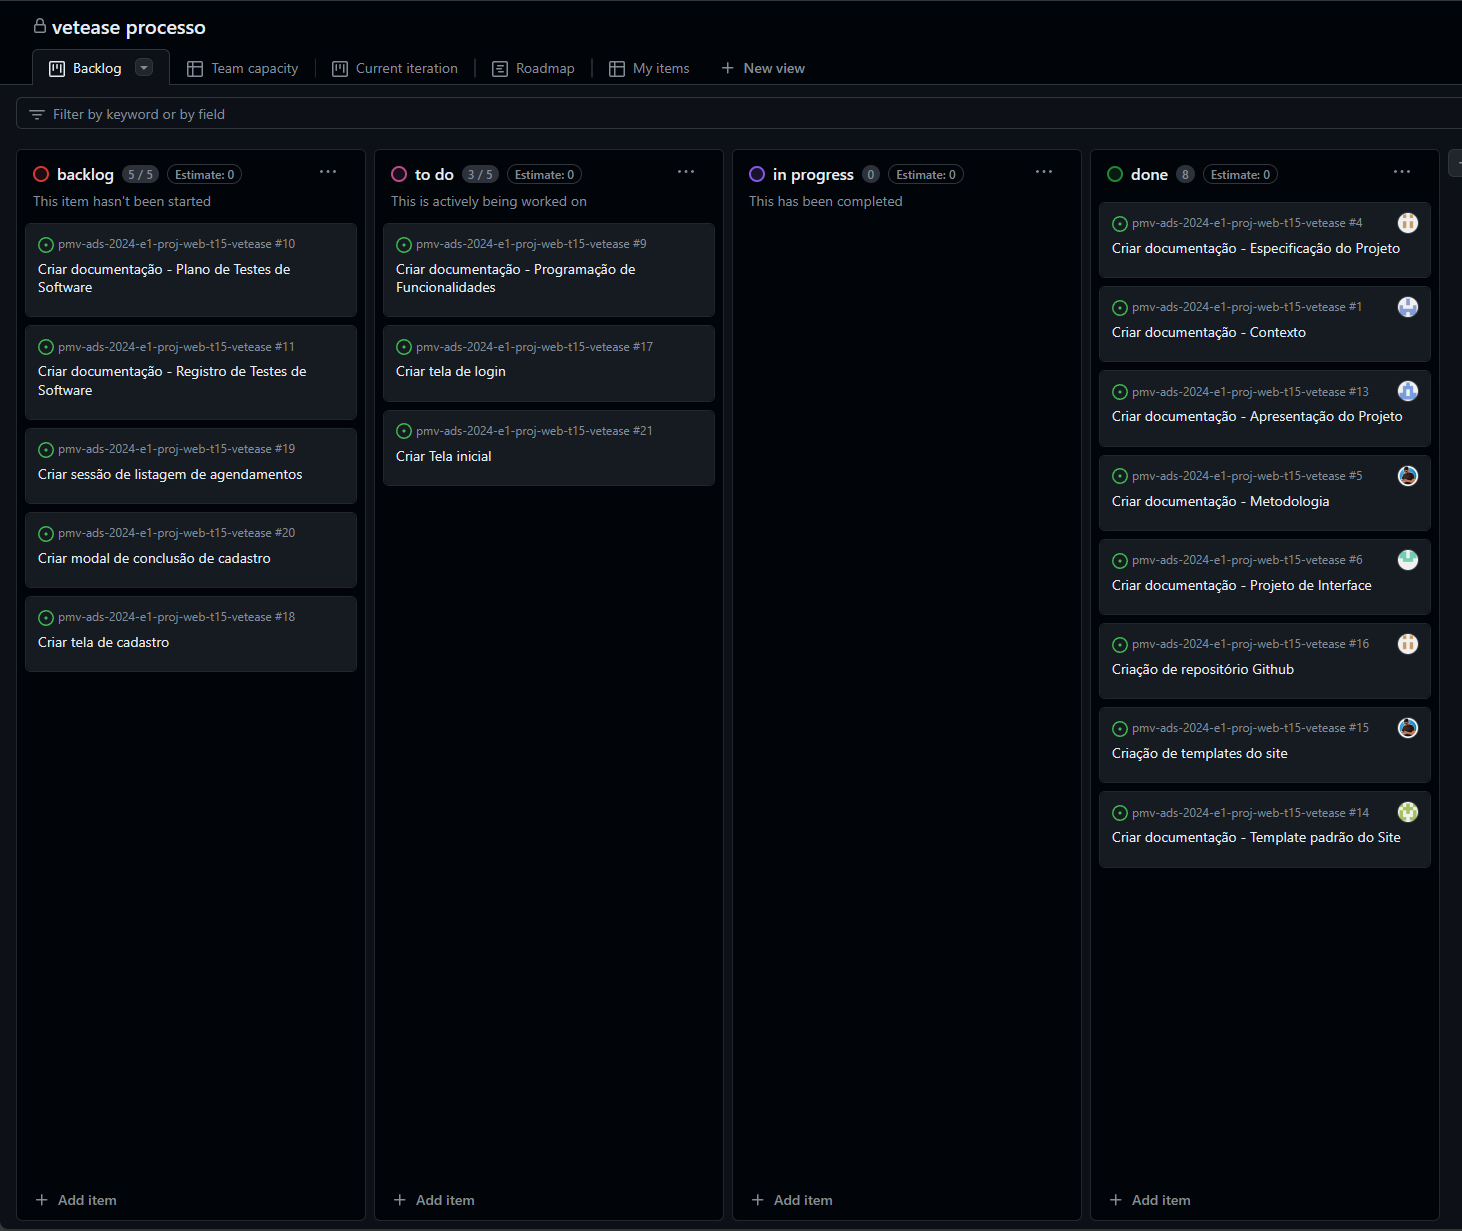
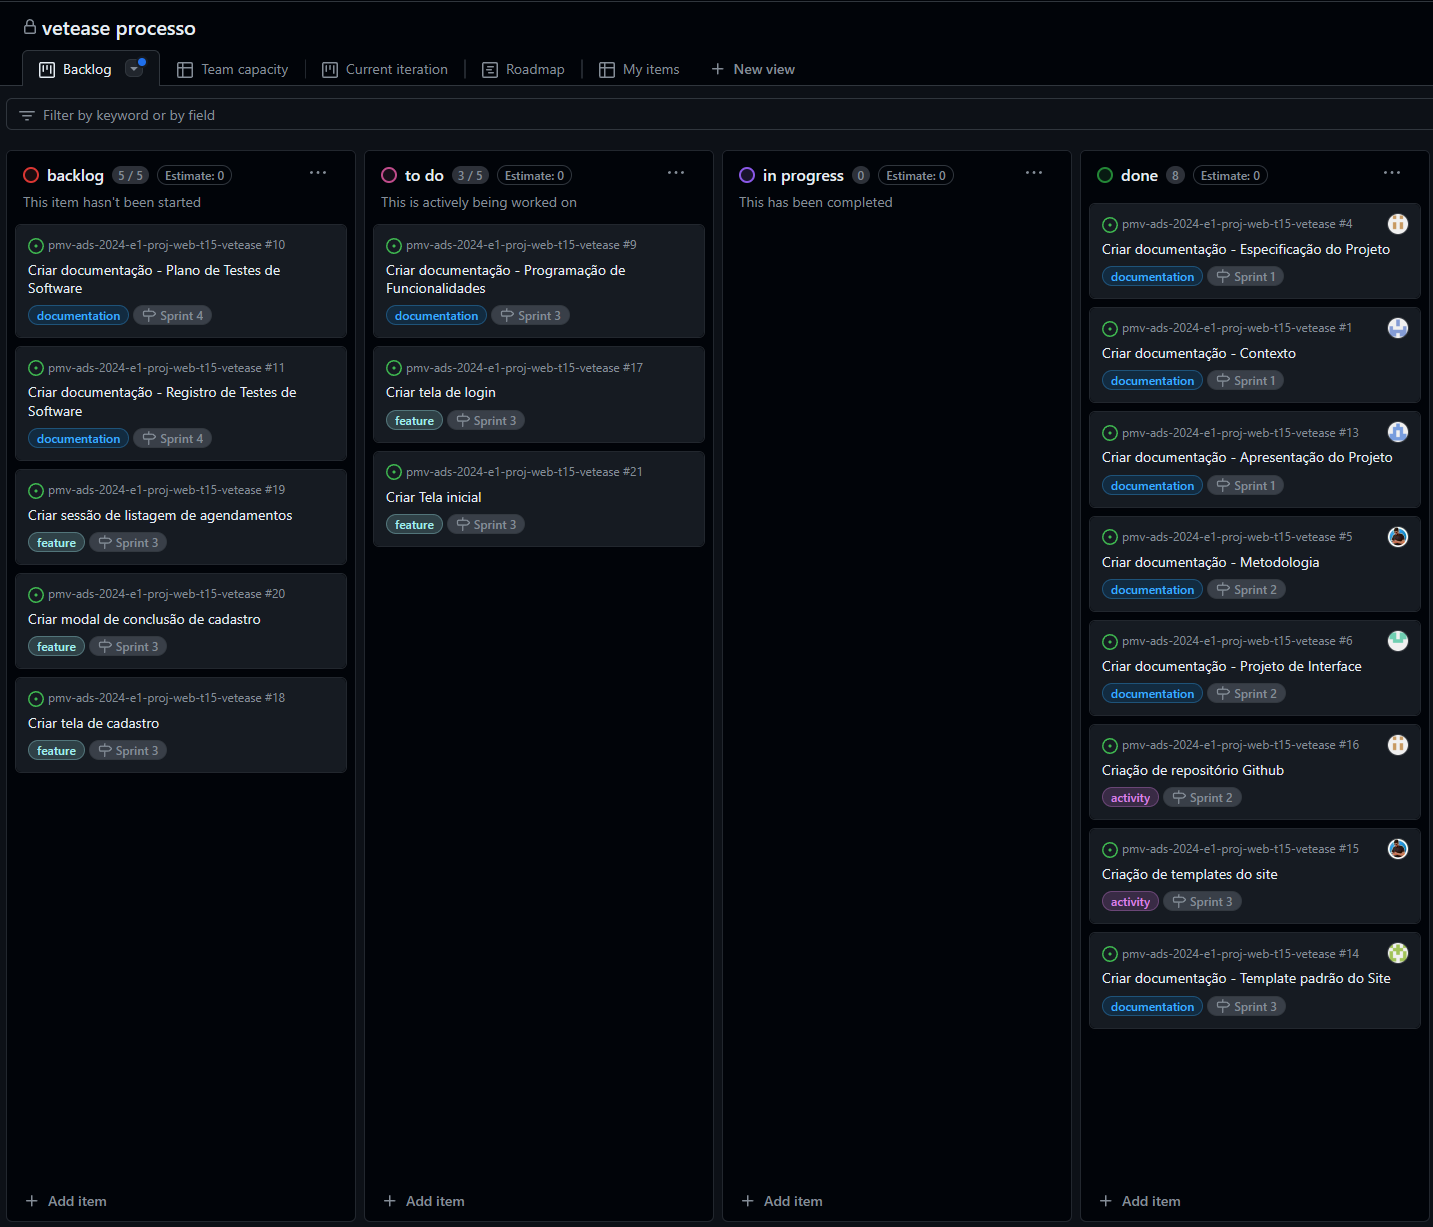
fix prints

diff --git a/docs/03-Metodologia.md b/docs/03-Metodologia.md
@@ -55,6 +55,11 @@ O board kanban referente ao acompanhamento do projeto esta disponivel no link a 
 
 ![](img/board.png)
 
+### Etiquetas
+As tarefas são, ainda, etiquetadas em função da natureza da atividade e seguem o seguinte esquema de cores/categorias:
+
+![](img/labels.png)
+
 ### Ferramentas
 
 
